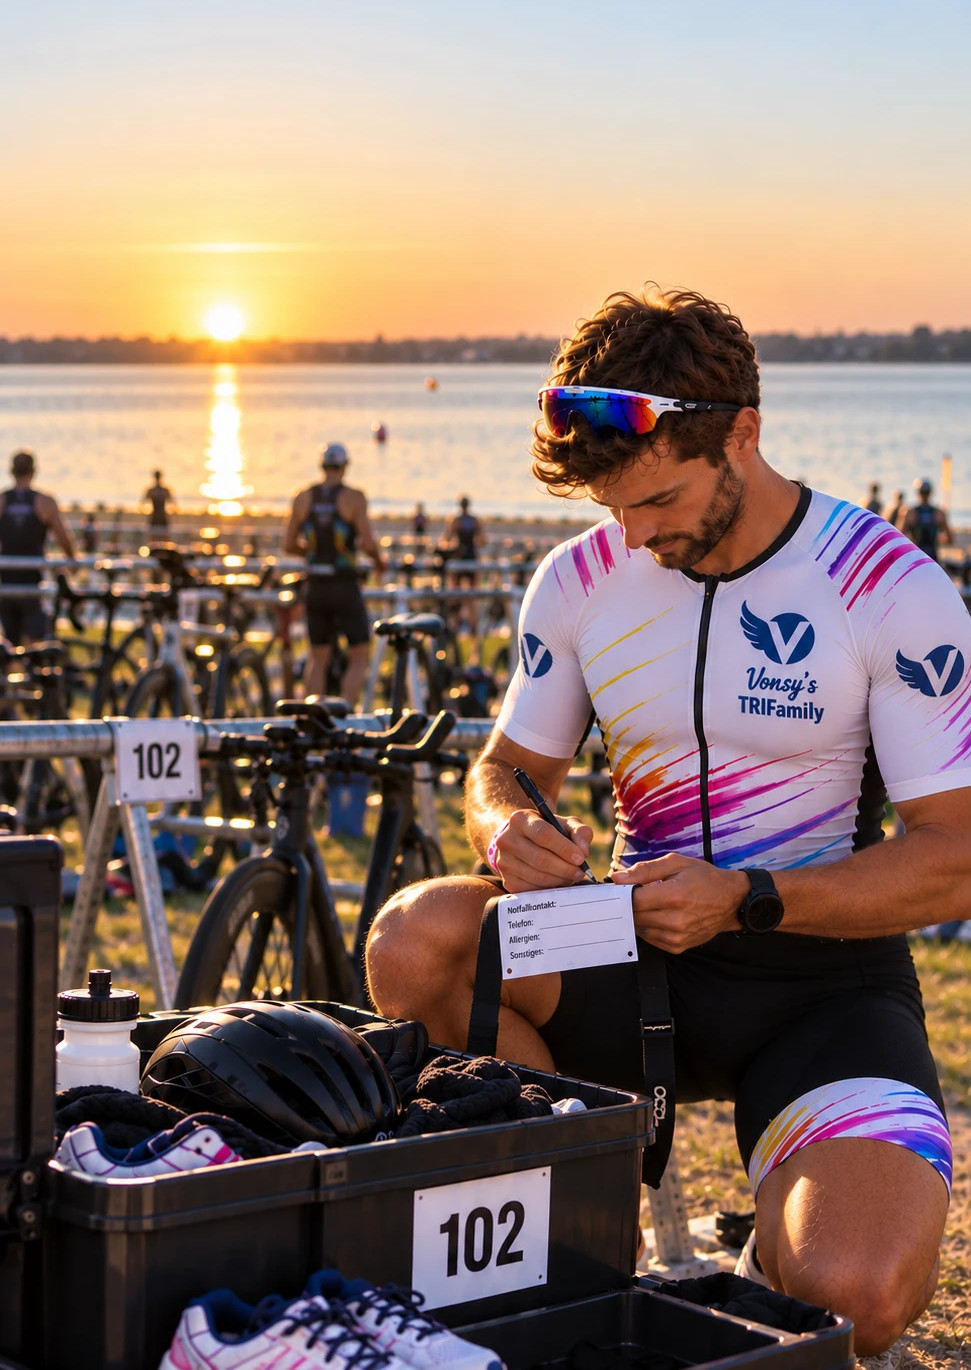
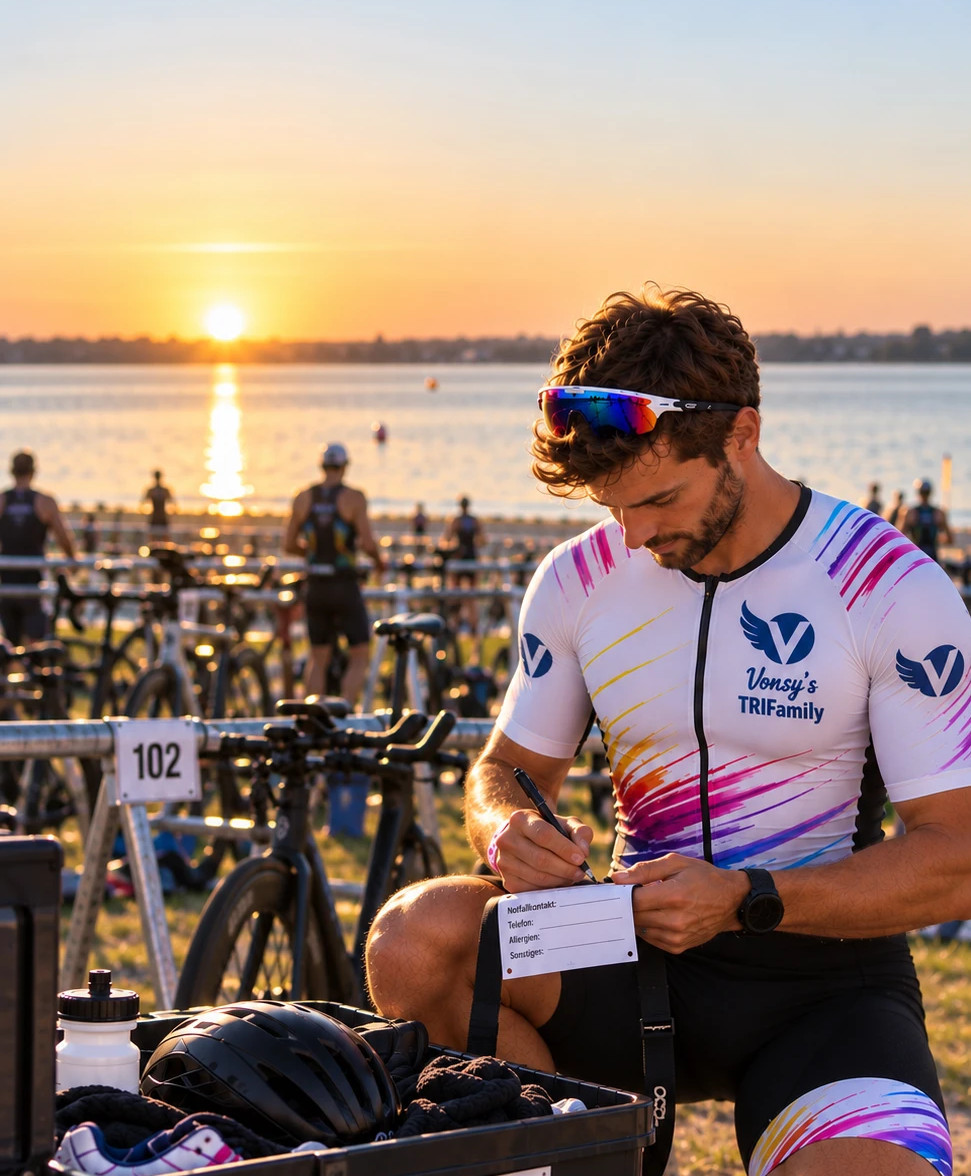
Startseite + Meine Daten: Hero-Fotos zusätzlich unten gekürzt
Auf Screenshot-Vorgabe (rote Markierung) analog zu Sportlerprofile
auch hier den unteren, bildinformationsarmen Bereich abgeschnitten:
transition-hero.jpg 971x1320 -> 971x1191, meine-daten-hero.jpg
971x1370 -> 971x1176. Macht beide Seiten kompakter/weniger Scrollen,
Kopf/Text weiterhin ohne Ueberlappung (per Playwright-Screenshot bei
360px und Desktop geprueft).

Claude-Session: https://claude.ai/code/session_01Nknp68H4QGcrGPWcEcMSp8

diff --git a/htdocs/bereich/home.php b/htdocs/bereich/home.php
@@ -30,10 +30,11 @@ $zurueck = null;
          damit alle anderen Seiten unveraendert bleiben. Menue-Funktion
          1:1 aus kopf.php uebernommen. Foto-Hero statt flacher Kopfzeile,
          analog zu login.php. Siehe Master-Prompt in CLAUDE.md. -->
-    <!-- Eigenes, kuerzeres Seitenverhaeltnis nur fuer dieses Foto (971x1320
-         statt 971x1619) - die anderen drei Seiten mit .home-hero behalten
-         das Standard-Seitenverhaeltnis aus style.css unveraendert. -->
-    <div class="home-hero" style="background-image:url('../assets/img/brand/transition-hero.jpg?v=<?= cacheV('assets/img/brand/transition-hero.jpg') ?>'); aspect-ratio: 971 / 1320;">
+    <!-- Eigenes, kuerzeres Seitenverhaeltnis nur fuer dieses Foto (971x1191
+         statt 971x1619) - oben wegen des leeren Himmels gekuerzt, unten
+         zusaetzlich auf Screenshot-Vorgabe (rote Markierung), da dort nur
+         noch bildinformationsarme Flaeche (Wechselbox/Wiese) stand. -->
+    <div class="home-hero" style="background-image:url('../assets/img/brand/transition-hero.jpg?v=<?= cacheV('assets/img/brand/transition-hero.jpg') ?>'); aspect-ratio: 971 / 1191;">
         <div class="home-hero__topbar">
             <a href="home.php" class="home-hero__brand" aria-label="Startseite">
                 <img class="home-hero__logo" src="../assets/img/logo.jpg?v=<?= cacheV('assets/img/logo.jpg') ?>" alt="Logo <?= e(VEREIN_NAME) ?>">

diff --git a/htdocs/bereich/index.php b/htdocs/bereich/index.php
@@ -30,10 +30,11 @@ $mitglied = requireMemberLogin('../login.php');
          Unterseiten (persoenliche-daten.php, passwort.php,
          bankverbindung.php) - vorher war das eine einzige, sehr lange
          Seite mit allen drei Formularen untereinander. -->
-    <!-- Eigenes, kuerzeres Seitenverhaeltnis nur fuer dieses Foto (971x1370
-         statt 971x1619) - die anderen Seiten mit .home-hero behalten das
-         Standard-Seitenverhaeltnis aus style.css unveraendert. -->
-    <div class="home-hero" style="background-image:url('../assets/img/brand/meine-daten-hero.jpg?v=<?= cacheV('assets/img/brand/meine-daten-hero.jpg') ?>'); aspect-ratio: 971 / 1370;">
+    <!-- Eigenes, kuerzeres Seitenverhaeltnis nur fuer dieses Foto (971x1176
+         statt 971x1619) - oben wegen des leeren Himmels gekuerzt, unten
+         zusaetzlich auf Screenshot-Vorgabe (rote Markierung), da dort nur
+         noch bildinformationsarme Flaeche stand. -->
+    <div class="home-hero" style="background-image:url('../assets/img/brand/meine-daten-hero.jpg?v=<?= cacheV('assets/img/brand/meine-daten-hero.jpg') ?>'); aspect-ratio: 971 / 1176;">
         <div class="home-hero__topbar">
             <a href="home.php" class="home-hero__brand" aria-label="Startseite">
                 <img class="home-hero__logo" src="../assets/img/logo.jpg?v=<?= cacheV('assets/img/logo.jpg') ?>" alt="Logo <?= e(VEREIN_NAME) ?>">
